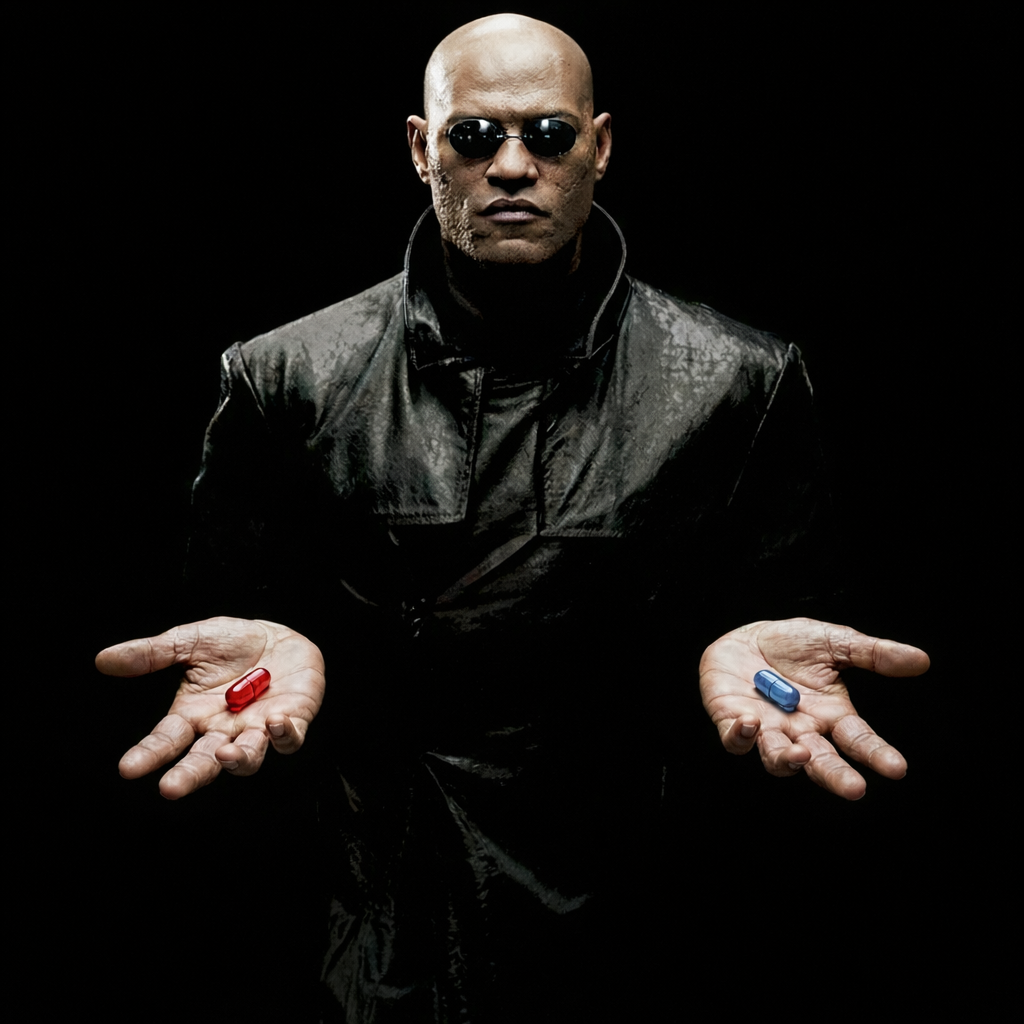
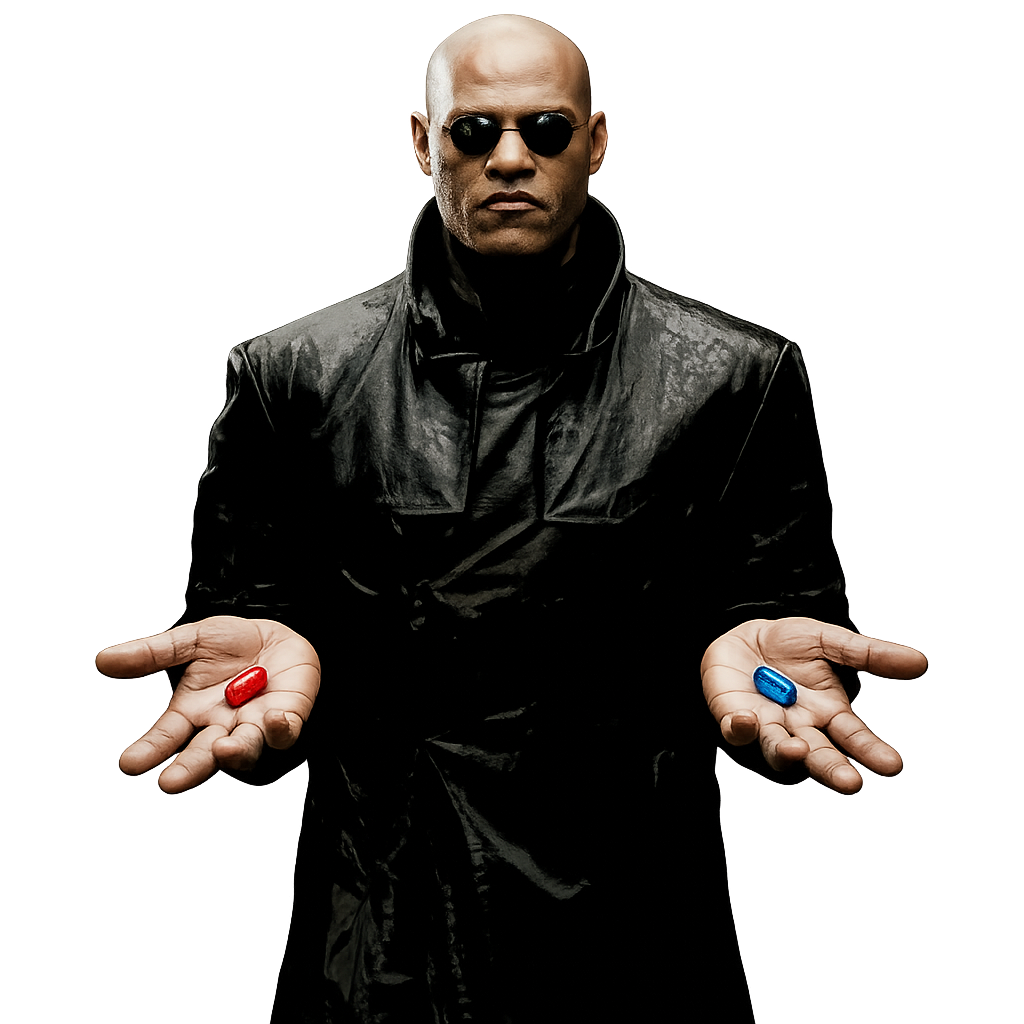
Switch to manually provided transparent Morpheus image

diff --git a/src/components/IntroScreen.jsx b/src/components/IntroScreen.jsx
@@ -51,7 +51,7 @@ const IntroScreen = ({ onChoice }) => {
           <div className="morpheus-backlight"></div>
 
           <img
-            src="/morpheus-clear.png"
+            src="/morpheus.png"
             alt="Morpheus"
             className="morpheus-img"
           />
@@ -187,7 +187,8 @@ const IntroScreen = ({ onChoice }) => {
           display: inline-block;
           max-height: 80vh;
           max-width: 100vw;
-          animation: emergeFromFog 5s cubic-bezier(0.2, 0.8, 0.2, 1) forwards;
+          z-index: 50;
+          animation: emergeFromShadow 4s cubic-bezier(0.2, 0.8, 0.2, 1) forwards;
         }
 
         .morpheus-backlight {
@@ -210,15 +211,15 @@ const IntroScreen = ({ onChoice }) => {
           filter: drop-shadow(0 0 30px rgba(0,0,0,0.8));
         }
 
-        @keyframes emergeFromFog {
+        @keyframes emergeFromShadow {
           0% {
             opacity: 0;
-            filter: blur(15px) brightness(0.2);
-            transform: scale(1.1) translateY(20px);
+            filter: brightness(0.2);
+            transform: scale(1.05) translateY(20px);
           }
           100% {
             opacity: 1;
-            filter: blur(0px) brightness(1);
+            filter: brightness(1);
             transform: scale(1) translateY(0);
           }
         }
